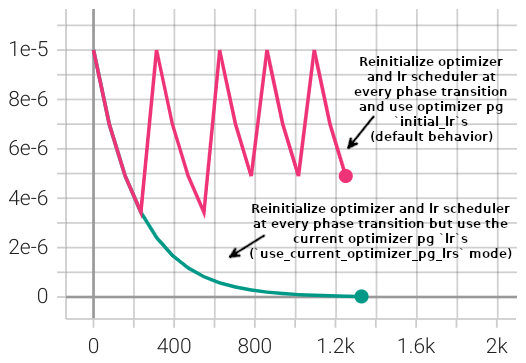
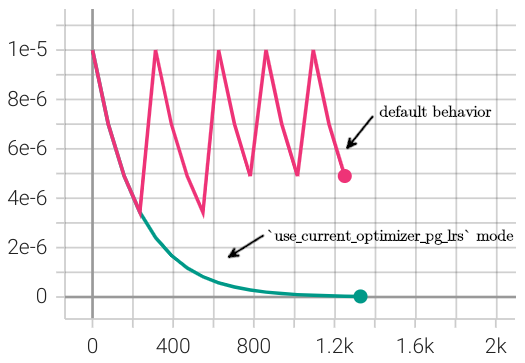
reinitialization documentation cleanup and clarification, minor setup.py update

diff --git a/src/fts_examples/stable/ipynb_src/fts_superglue_nb.py b/src/fts_examples/stable/ipynb_src/fts_superglue_nb.py
@@ -481,7 +481,7 @@ optimizer_init = {"weight_decay": 1e-05, "eps": 1e-07, "lr": 1e-05}
 # justified [(Loshchilov & Hutter, 2016)](#f4), the particular values provided here are primarily empircally driven.
 #
 # [FinetuningScheduler](https://finetuning-scheduler.readthedocs.io/en/stable/api/finetuning_scheduler.fts.html#finetuning_scheduler.fts.FinetuningScheduler) also supports LR scheduler
-# reinitialization in both explicit and implicit finetuning schedule modes. See the [advanced usage documentation](https://finetuning-scheduler.readthedocs.io/en/stable/advanced/lr_scheduler_reinitialization.html) for explanations and demonstration of the extension's support for more complex requirements.
+# reinitialization in both explicit and implicit finetuning schedule modes. See the advanced usage documentation ([LR scheduler reinitialization](https://finetuning-scheduler.readthedocs.io/en/stable/advanced/lr_scheduler_reinitialization.html), [optimizer reinitialization](https://finetuning-scheduler.readthedocs.io/en/stable/advanced/optimizer_reinitialization.html)) for explanations and demonstration of the extension's support for more complex requirements.
 # </div>
 
 

diff --git a/setup.py b/setup.py
@@ -85,6 +85,7 @@ def _setup_args(standalone: bool = False) -> Dict[str, Any]:
             "fts_examples.stable.config": ["*.yaml"],
             "fts_examples.stable.config.advanced.fsdp": ["*.yaml"],
             "fts_examples.stable.config.advanced.reinit_lr": ["*.yaml"],
+            "fts_examples.stable.config.advanced.reinit_optim_lr": ["*.yaml"],
             "fts_examples.legacy.config": ["*.yaml"],
             "fts_examples.legacy.config.advanced.fsdp": ["*.yaml"],
             "fts_examples.legacy.config.advanced.reinit_lr": ["*.yaml"],

diff --git a/docs/source/advanced/optimizer_reinitialization.rst b/docs/source/advanced/optimizer_reinitialization.rst
@@ -8,16 +8,16 @@ Overview
 ********
 :class:`~finetuning_scheduler.fts.FinetuningScheduler` (FTS) supports the initialization of new optimizers according to
 a user-specified fine-tuning schedule. Similarly motivated to Fine-Tuning Scheduler's
-:ref:`LR scheduler reinitialization feature<lrs-reinit-overview>`, one can initialize new optimizers (or reinitialize
+:ref:`lr scheduler reinitialization feature<lrs-reinit-overview>`, one can initialize new optimizers (or reinitialize
 an existing one) at the beginning of one or more scheduled training phases.
 
 Optimizer reinitialization is supported:
 
-- With FTS >= ``2.1.0``
 - In both explicit and implicit fine-tuning schedule modes (see the :ref:`Fine-Tuning Scheduler intro<motivation>` for
   more on basic usage modes)
-- With or without concurrent LR scheduler reinitialization
+- With or without concurrent lr scheduler reinitialization
 - In the context of all supported training strategies (including FSDP)
+- With FTS >= ``2.1.0``
 
 We'll cover both implicit and explicit configuration modes below and provide a slightly altered version of the
 :ref:`lr scheduler reinitialization example<advanced-fine-tuning-lr-example>` that demonstrates concurrent
@@ -64,9 +64,9 @@ Any arguments with which you would like to initialize the specified optimizer sh
             weight_decay: 2.0e-06
     ...
 
-Optionally, one can also provide an LR scheduler reinitialization directive in the same phase as an optimizer
-reinitialization directive. If one does not provide a ``new_lr_scheduler`` directive, the latest LR state will still be
-restored and wrapped around the new optimizer prior to the execution of the new phase (as with LR scheduler
+Optionally, one can also provide an lr scheduler reinitialization directive in the same phase as an optimizer
+reinitialization directive. If one does not provide a ``new_lr_scheduler`` directive, the latest lr state will still be
+restored and wrapped around the new optimizer prior to the execution of the new phase (as with lr scheduler
 reinitialization):
 
 .. code-block:: yaml
@@ -99,6 +99,8 @@ reinitialization):
 All optimizer reinitialization configurations specified in the fine-tuning schedule will have their configurations
 sanity-checked prior to training initiation.
 
+.. _optimizer-compat-note:
+
 .. note::
 
     When reinitializing optimizers, FTS does not fully simulate/evaluate all compatibility scenarios so it is the user's
@@ -114,14 +116,9 @@ sanity-checked prior to training initiation.
 
     Phase ``2`` would fail due to incompatibility between Adam and SGD optimizer states. This issue could be avoided by
     either reinitializing the Adam optimizer again in phase ``2`` or setting
-    :paramref:`~finetuning_scheduler.fts.FinetuningScheduler.restore_best`` to ``False``.
+    :paramref:`~finetuning_scheduler.fts.FinetuningScheduler.restore_best`` to ``False``. [#]_
 
-    While FTS could theoretically cache optimizer state prior to checkpoint restoration for potentially incompatible
-    optimizer reinitialization configurations, that functionality is not currently implemented because of the resource
-    overhead and unnecessary complexity it would add to the default restoration path. If there is sufficient interest
-    in the user community, that functionality may be added in the future.
-
-Both LR scheduler and optimizer reinitialization configurations are only supported for phases >= ``1``. This is because
+Both lr scheduler and optimizer reinitialization configurations are only supported for phases >= ``1``. This is because
 for fine-tuning phase ``0``, training component configurations will be the ones the user initiated the training
 session with, usually via the ``configure_optimizer`` method of
 :external+pl:class:`~lightning.pytorch.core.module.LightningModule`.
@@ -216,18 +213,18 @@ also be specified in implicit mode.
 
 Advanced Usage Examples: Explicit and Implicit Mode Concurrent Optimizer and LR Scheduler Reinitialization
 **********************************************************************************************************
-Demonstration optimizer and concurrent LR scheduler reinitialization configurations for both explicit and
+Demonstration optimizer and concurrent lr scheduler reinitialization configurations for both explicit and
 fine-tuning scheduling contexts are available under ``./fts_examples/stable/config/advanced/reinit_optim_lr``.
 
-The concurrent optimizer and LR scheduler reinitialization examples use the same code and have the same dependencies as
-the LR scheduler reinitialization-only (with the exception of requiring FTS >= ``2.1.0`` )
+The concurrent optimizer and lr scheduler reinitialization examples use the same code and have the same dependencies as
+the lr scheduler reinitialization-only (with the exception of requiring FTS >= ``2.1.0`` )
 :ref:`examples<advanced-fine-tuning-lr-example>`.
 
 The two different demo schedule configurations are composed with shared defaults (``./config/fts_defaults.yaml``).
 
 .. code-block:: bash
 
-    # Demo concurrent optimizer and LR scheduler reinitializations...
+    # Demo concurrent optimizer and lr scheduler reinitializations...
     cd ./fts_examples/stable
 
     # with an explicitly defined fine-tuning schedule:
@@ -242,13 +239,15 @@ The two different demo schedule configurations are composed with shared defaults
 Similar to the explicitly defined lr reinitialization-only schedule example, we are using three distinct lr schedulers
 for three different training phases. In this case, there are also distinctly configured optimizers being used:
 
+.. _explicit-config-overview:
+
 .. figure:: ../_static/images/fts/explicit_optim_lr_scheduler_reinit_pg1_phase0.png
   :alt: Phase 0
   :width: 75%
 
-* Phase ``0`` in :yellow-highlight:`yellow` uses a :external+torch:class:`~torch.optim.AdamW` optimizer and :external+torch:class:`~torch.optim.lr_scheduler.LinearLR` scheduler with the initial lr and optimizer defined via the shared initial optimizer configuration.
-* Phase ``1`` in :blue-highlight:`blue` uses a :external+torch:class:`~torch.optim.SGD` optimizer and :external+torch:class:`~torch.optim.lr_scheduler.StepLR` scheduler, including the specified initial lr for the existing parameter groups (``2.0e-06``).
-* Phase ``2`` in :green-highlight:`green` switches back to a :external+torch:class:`~torch.optim.AdamW` optimizer but uses a :external+torch:class:`~torch.optim.lr_scheduler.CosineAnnealingWarmRestarts` scheduler, with an assigned initial lr for each of the parameter groups.
+* The :ref:`configured phase 0<explicit-phase-0-config>` in :yellow-highlight:`yellow` uses an :external+torch:class:`~torch.optim.AdamW` optimizer and :external+torch:class:`~torch.optim.lr_scheduler.LinearLR` scheduler with the initial lr and optimizer defined via the shared initial optimizer configuration.
+* The :ref:`configured phase 1<explicit-phase-1-config>` in :blue-highlight:`blue` uses a :external+torch:class:`~torch.optim.SGD` optimizer and :external+torch:class:`~torch.optim.lr_scheduler.StepLR` scheduler, including the specified initial lr for the existing parameter groups (``2.0e-06``).
+* The :ref:`configured phase 2<explicit-phase-2-config>` in :green-highlight:`green` switches back to an :external+torch:class:`~torch.optim.AdamW` optimizer but uses a :external+torch:class:`~torch.optim.lr_scheduler.CosineAnnealingWarmRestarts` scheduler, with an assigned initial lr for each of the parameter groups.
 
 
 Because we turned on DEBUG-level logging to trace reinitializations, we observe the following in our training log upon
@@ -265,10 +264,6 @@ the phase ``1`` optimizer reinitialization:
   ... (followed by parameter group config details)
   New optimizer state: SGD
   ... (followed by parameter group initial config details, note existing lr state or user directives may subsequently override the `lr`s in this initial config)
-
-.. _explicit-config-overview:
-
-Here are the configurations for each respective phase in this explicit schedule example: (:ref:`phase 0<explicit-phase-0-config>`, :ref:`phase 1<explicit-phase-1-config>`, :ref:`phase 2<explicit-phase-2-config>`)
 
 In the implicitly defined schedule scenario, we begin using the :external+torch:class:`~torch.optim.AdamW` optimizer
 but the :external+torch:class:`~torch.optim.SGD` optimizer and :external+torch:class:`~torch.optim.lr_scheduler.StepLR`
@@ -315,7 +310,7 @@ reinitialized at each phase transition and applied to all optimizer parameter gr
    :alt: Phase 0
    :width: 75%
 
-   LR log for parameter group 1 reflecting repeated reinitialization of the :external+torch:class:`~torch.optim.SGD` optimizer and :external+torch:class:`~torch.optim.lr_scheduler.StepLR` LR scheduler (initial target lr = ``1.0e-05``).
+   LR log for parameter group 1 reflecting repeated reinitialization of the :external+torch:class:`~torch.optim.SGD` optimizer and :external+torch:class:`~torch.optim.lr_scheduler.StepLR` lr scheduler (initial target lr = ``1.0e-05``) at each phase transition.
    The behavioral impact of ``use_current_optimizer_pg_lrs`` (line 28 above) on the lr scheduler reinitializations can be clearly observed.
 
 Note that we have disabled :paramref:`~finetuning_scheduler.fts.FinetuningScheduler.restore_best` in both examples for
@@ -421,3 +416,11 @@ Phase ``2`` config, like all non-zero phases, defined in our explicit schedule `
         frequency: 1
         name: Explicit_Reinit_LR_Scheduler
       init_pg_lrs: [1.0e-06, 1.0e-06, 2.0e-06, 2.0e-06]
+
+Footnotes
+*********
+
+.. [#] While FTS could theoretically cache optimizer state prior to checkpoint restoration for potentially incompatible
+ optimizer reinitialization configurations, that functionality is not currently implemented because of the resource
+ overhead and unnecessary complexity it would add to the default restoration path. If there is sufficient interest
+ in the user community, that functionality may be added in the future. :ref:`⏎<optimizer-compat-note>`

diff --git a/docs/source/advanced/lr_scheduler_reinitialization.rst b/docs/source/advanced/lr_scheduler_reinitialization.rst
@@ -6,22 +6,22 @@ LR Scheduler Reinitialization
 
 Overview
 ********
-In some contexts it can be useful to re-wrap your optimizer with new LR scheduler configurations at the beginning of one
+In some contexts it can be useful to re-wrap your optimizer with new lr scheduler configurations at the beginning of one
 or more scheduled training phases. Among others, example use cases include:
 
-* implementing complex LR schedules along with multi-phase early-stopping
+* implementing complex lr schedules along with multi-phase early-stopping
 * injecting new parameter group specific rates on a scheduled basis
 * programmatically exploring training behavioral dynamics with heterogenous schedulers and early-stopping
 
-LR scheduler reinitialization is supported by the :class:`~finetuning_scheduler.fts.FinetuningScheduler` callback:
+LR scheduler reinitialization is supported:
 
-  - With FTS >= ``0.1.4``
-  - In both explicit and implicit fine-tuning schedule modes (see the :ref:`Fine-Tuning Scheduler intro<motivation>` for
-    more on basic usage modes)
-  - With or without concurrent optimizer reinitialization (FTS >= ``2.1.0``)
-  - In the context of all supported training strategies (including FSDP).
+- In both explicit and implicit fine-tuning schedule modes (see the :ref:`Fine-Tuning Scheduler intro<motivation>` for
+  more on basic usage modes)
+- With or without concurrent optimizer reinitialization (FTS >= ``2.1.0``)
+- In the context of all supported training strategies (including FSDP).
+- With FTS >= ``0.1.4``
 
-As LR scheduler reinitialization is likely to be applied most frequently in the context of explicitly defined
+As lr scheduler reinitialization is likely to be applied most frequently in the context of explicitly defined
 fine-tuning schedules, we'll cover configuration in that mode first. Please see the
 :ref:`optimizer reinitialization feature introduction<optim-reinit-overview>` for a review of concurrent optimizer and
 lr scheduler reinitialization.
@@ -38,7 +38,7 @@ desired configuration in the ``new_lr_scheduler`` key. The ``new_lr_scheduler`` 
 annotated yaml schedule below and can be explored using the
 :ref:`advanced usage example<advanced-fine-tuning-lr-example>`.
 
-When specifying an LR scheduler configuration for a given phase, the ``new_lr_scheduler`` dictionary requires at minimum
+When specifying an lr scheduler configuration for a given phase, the ``new_lr_scheduler`` dictionary requires at minimum
 an ``lr_scheduler_init`` dictionary containing a ``class_path`` key indicating the class of the lr scheduler
 (:ref:`list of supported schedulers<supported_lr_schedulers>`) to be instantiated and wrapped around your optimizer.
 
@@ -116,10 +116,12 @@ optimizer being wrapped via a list in the ``init_pg_lrs`` key.
     factors including the ``no_decay`` mapping of parameters specified in previous phases and isn't yet
     introspected/simulated in the current :class:`~finetuning_scheduler.fts.FinetuningScheduler` version.
 
-Finally, when reinitializing an LR scheduler for a given phase, one can direct FTS to use the current optimizer parameter group ``lr`` s rather
+.. _lr-state-precedence:
+
+Finally, when reinitializing an lr scheduler for a given phase, one can direct FTS to use the current optimizer parameter group ``lr`` s rather
 than defaulting to the existing optimizer's ``initial_lr`` configuration for existing parameter groups. This mode is
 enabled by setting the ``use_current_optimizer_pg_lrs`` key to ``True``. For a concrete example of this behavior, see :ref:`this example<use-curr-optim-pg-example>`.
-The ``init_pg_lrs`` key takes precedence over the ``use_current_optimizer_pg_lrs`` key if both are present.
+The ``init_pg_lrs`` key takes precedence over the ``use_current_optimizer_pg_lrs`` key if both are present. [#]_
 
 .. code-block:: yaml
   :linenos:
@@ -137,8 +139,8 @@ The ``init_pg_lrs`` key takes precedence over the ``use_current_optimizer_pg_lrs
 All lr scheduler reinitialization configurations specified in the fine-tuning schedule will have their configurations
 sanity-checked prior to training initiation.
 
-Note that specifying LR scheduler reinitialization configurations is only supported for phases >= ``1``. This is because
-for fine-tuning phase ``0``, the LR scheduler configuration will be the scheduler that you initiate your training
+Note that specifying lr scheduler reinitialization configurations is only supported for phases >= ``1``. This is because
+for fine-tuning phase ``0``, the lr scheduler configuration will be the scheduler that you initiate your training
 session with, usually via the ``configure_optimizer`` method of
 :external+pl:class:`~lightning.pytorch.core.module.LightningModule`.
 
@@ -218,6 +220,11 @@ below, lr schedulers specified in different fine-tuning phases can be of differi
 Once a new lr scheduler is re-initialized, it will continue to be used for subsequent phases unless replaced with
 another lr scheduler configuration defined in a subsequent schedule phase.
 
+.. _lr-state-restoration:
+
+Prior to the execution of each phase transition, the latest lr state [#]_ from the previous phase will be restored before proceeding with any lr scheduler reinitialization directive.
+This is predominantly relevant only when training in :paramref:`~finetuning_scheduler.fts.FinetuningScheduler.restore_best` mode or reinitializing the optimizer as well as lr scheduler.
+
 .. tip::
 
     If you have specified an lr scheduler with an ``lr_lambdas`` attribute in any phase,
@@ -231,8 +238,8 @@ another lr scheduler configuration defined in a subsequent schedule phase.
 
 LR Scheduler Reinitialization With Generated (Implicit Mode) Fine-Tuning Schedules
 **********************************************************************************
-One can also specify LR scheduler reinitialization in the context of implicit mode fine-tuning schedules. Since the
-fine-tuning schedule is automatically generated, the same LR scheduler configuration will be applied at each of the
+One can also specify lr scheduler reinitialization in the context of implicit mode fine-tuning schedules. Since the
+fine-tuning schedule is automatically generated, the same lr scheduler configuration will be applied at each of the
 phase transitions. In implicit mode, the lr scheduler reconfiguration should be supplied to the
 :paramref:`~finetuning_scheduler.fts.FinetuningScheduler.reinit_lr_cfg` parameter of
 :class:`~finetuning_scheduler.fts.FinetuningScheduler`.
@@ -275,17 +282,17 @@ lr scheduler configuration can differ in lr scheduler type and configuration fro
 same schedule is applied at each phase transition, the ``init_pg_lrs`` list is not supported in an implicit fine-tuning
 context.
 
-Application of LR scheduler reinitialization in both explicit and implicit modes may be best understood via examples, so
+Application of lr scheduler reinitialization in both explicit and implicit modes may be best understood via examples, so
 we'll proceed to those next.
 
 .. _advanced-fine-tuning-lr-example:
 
 Advanced Usage Examples: Explicit and Implicit Mode LR Scheduler Reinitialization
 *********************************************************************************
-Demonstration LR scheduler reinitialization configurations for both explicit and implicit fine-tuning scheduling contexts
+Demonstration lr scheduler reinitialization configurations for both explicit and implicit fine-tuning scheduling contexts
 are available under ``./fts_examples/stable/config/advanced/reinit_lr``.
 
-The LR scheduler reinitialization examples use the same code and have the same dependencies as the basic
+The lr scheduler reinitialization examples use the same code and have the same dependencies as the basic
 :ref:`scheduled fine-tuning for SuperGLUE<scheduled-fine-tuning-superglue>` examples.
 
 The two different demo schedule configurations are composed with shared defaults (``./config/fts_defaults.yaml``).
@@ -293,10 +300,10 @@ The two different demo schedule configurations are composed with shared defaults
 .. code-block:: bash
 
     cd ./fts_examples/stable
-    # Demo LR scheduler reinitialization with an explicitly defined fine-tuning schedule:
+    # Demo lr scheduler reinitialization with an explicitly defined fine-tuning schedule:
     python fts_superglue.py fit --config config/advanced/reinit_lr/fts_explicit_reinit_lr.yaml
 
-    # Demo LR scheduler reinitialization with an implicitly defined fine-tuning schedule:
+    # Demo lr scheduler reinitialization with an implicitly defined fine-tuning schedule:
     python fts_superglue.py fit --config config/advanced/reinit_lr/fts_implicit_reinit_lr.yaml
 
 
@@ -471,3 +478,15 @@ parameter groups.
 
 Note that we have disabled :paramref:`~finetuning_scheduler.fts.FinetuningScheduler.restore_best` in both examples for
 clarity of lr patterns.
+
+Footnotes
+*********
+
+.. [#] The following precedence governs the configuration of existing parameter group ``lr`` s when reinitializing an lr scheduler:
+
+  1. User-provided ``lr`` s from the ``init_pg_lrs`` directive if it exists
+  2. Existing optimizer ``lr`` s if ``use_current_optimizer_pg_lrs`` is set to ``True``
+  3. The ``initial_lr`` of the current optimizer parameter groups by default
+  4. The existing optimizer ``lr`` s if ``use_current_optimizer_pg_lrs`` is not set to ``True`` but the relevant parameter group does not have an ``initial_lr`` key :ref:`⏎<lr-state-precedence>`
+
+.. [#] The latest lr state consists of the previous lr scheduler ``state_dict`` and the ``lr`` s of each optimizer parameter group. :ref:`⏎<lr-state-restoration>`

diff --git a/README.md b/README.md
@@ -130,6 +130,7 @@ ______________________________________________________________________
 - [CLI-based Tutorial](https://finetuning-scheduler.readthedocs.io/en/stable/#example-scheduled-fine-tuning-for-superglue)
 - [FSDP Scheduled Fine-Tuning](https://finetuning-scheduler.readthedocs.io/en/stable/advanced/fsdp_scheduled_fine_tuning.html)
 - [LR Scheduler Reinitialization](https://finetuning-scheduler.readthedocs.io/en/stable/advanced/lr_scheduler_reinitialization.html) (advanced)
+- [Optimizer Reinitialization](https://finetuning-scheduler.readthedocs.io/en/stable/advanced/optimizer_reinitialization.html) (advanced)
 
 ______________________________________________________________________
 
